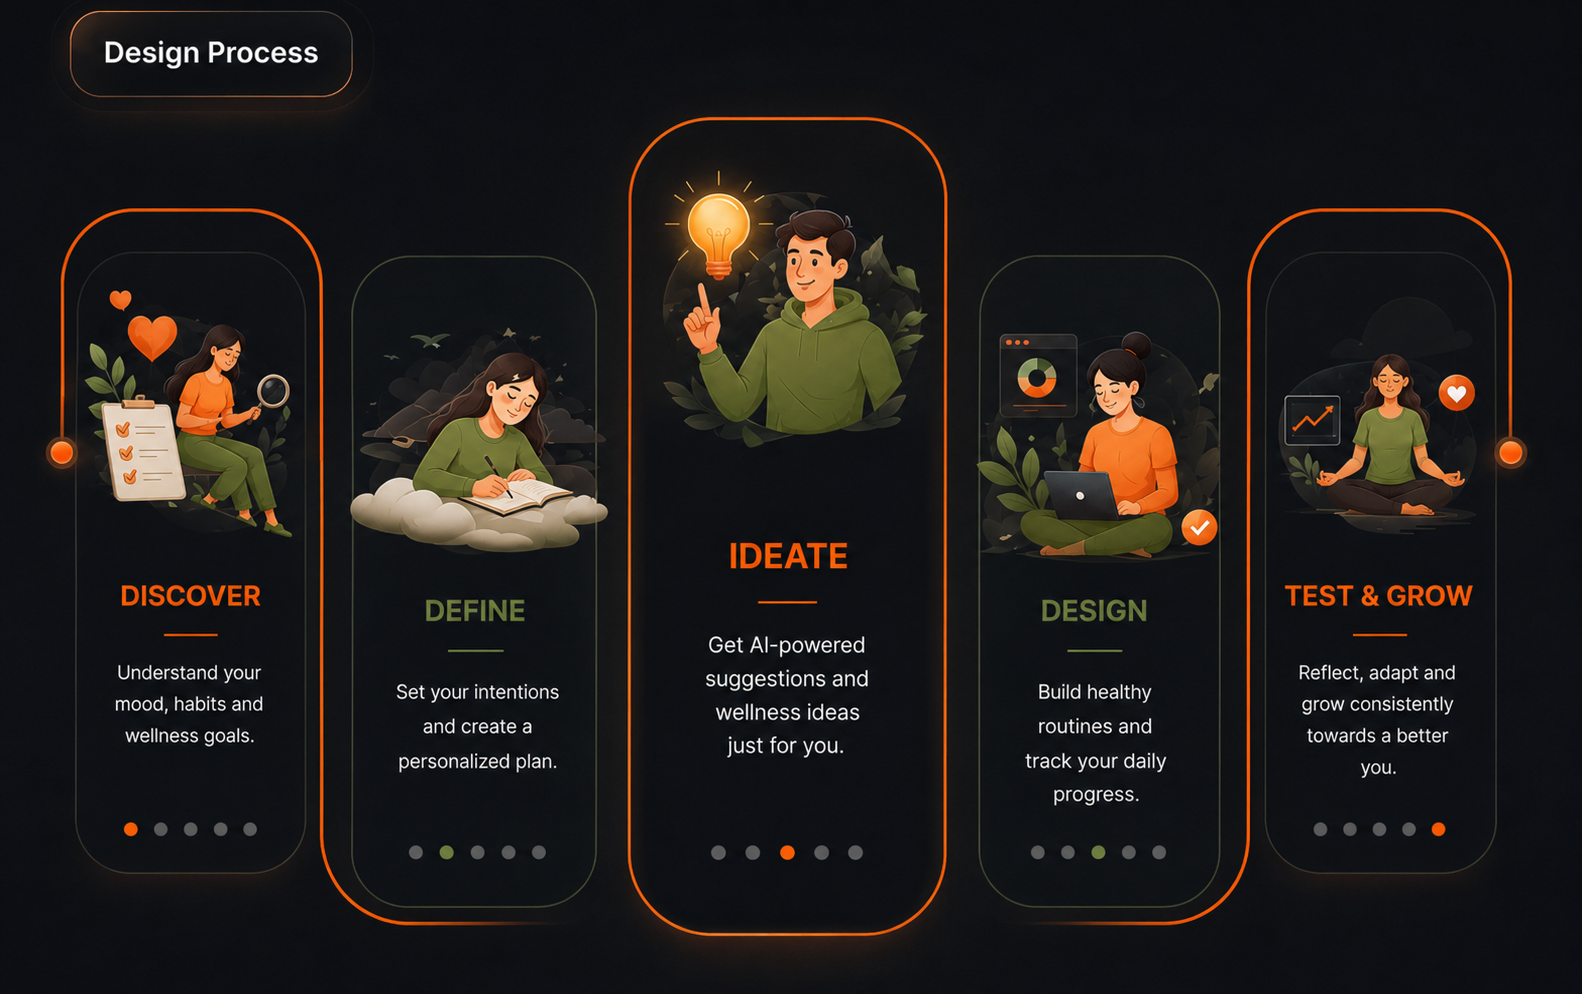
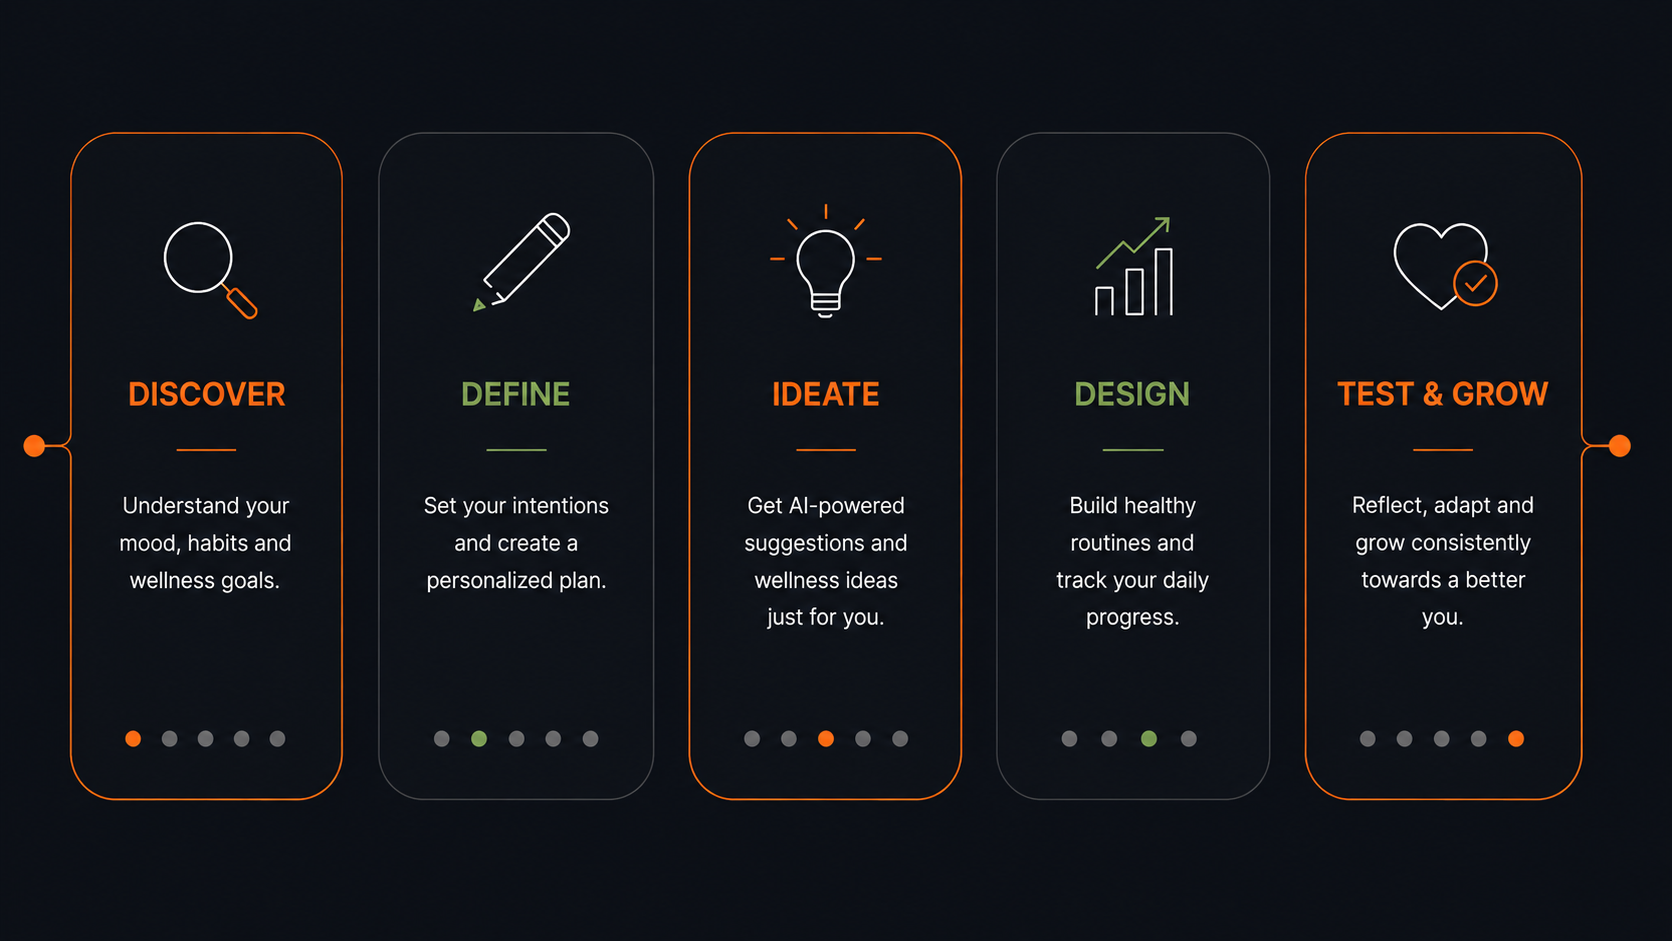
Update portfolio assets, main scripts, and project UI

diff --git a/js/main.js b/js/main.js
@@ -153,7 +153,7 @@ function initScrollCardAnimation() {
 
   const images = [
     "assets/dhnj.jpg", // 0: Hero
-    "assets/design-process/define.png", // 1: Discover
+    "assets/design-process/discover.png", // 1: Discover
     "assets/design-process/define.png", // 2: Define
     "assets/design-process/ideate.png", // 3: Ideate
     "assets/design-process/prototype.png", // 4: Prototype
@@ -220,11 +220,11 @@ function initScrollCardAnimation() {
     let nextBSrc = faceBImg.src;
 
     if (baseIndex % 2 === 0) {
-      nextASrc = images[baseIndex] || images[6];
-      if (baseIndex + 1 <= 6) nextBSrc = images[baseIndex + 1];
+      nextASrc = images[baseIndex] || images[7];
+      if (baseIndex + 1 <= 7) nextBSrc = images[baseIndex + 1];
     } else {
-      nextBSrc = images[baseIndex] || images[6];
-      if (baseIndex + 1 <= 6) nextASrc = images[baseIndex + 1];
+      nextBSrc = images[baseIndex] || images[7];
+      if (baseIndex + 1 <= 7) nextASrc = images[baseIndex + 1];
     }
 
     if (lastFaceASrc !== nextASrc) {

diff --git a/js/portfolio.js b/js/portfolio.js
@@ -193,7 +193,7 @@ syncLayoutMode();
 
 const images = [
   "assets/dhnj.jpg", // 0: Hero
-  "assets/design-process/define.png", // 1: Discover
+  "assets/design-process/discover.png", // 1: Discover
   "assets/design-process/define.png", // 2: Define
   "assets/design-process/ideate.png", // 3: Ideate
   "assets/design-process/prototype.png", // 4: Prototype

diff --git a/js/project-ui.js b/js/project-ui.js
@@ -39,6 +39,9 @@ document.addEventListener("DOMContentLoaded", () => {
       "assets/13.png",
       "assets/14.png",
       "assets/15.png",
+      "assets/16.png",
+      "assets/17.png",
+      "assets/18.png",
     ],
     1: [], // Runway — Native Android (add assets when ready)
     2: [], // Runway — Fintech Case Study (add assets when ready)
